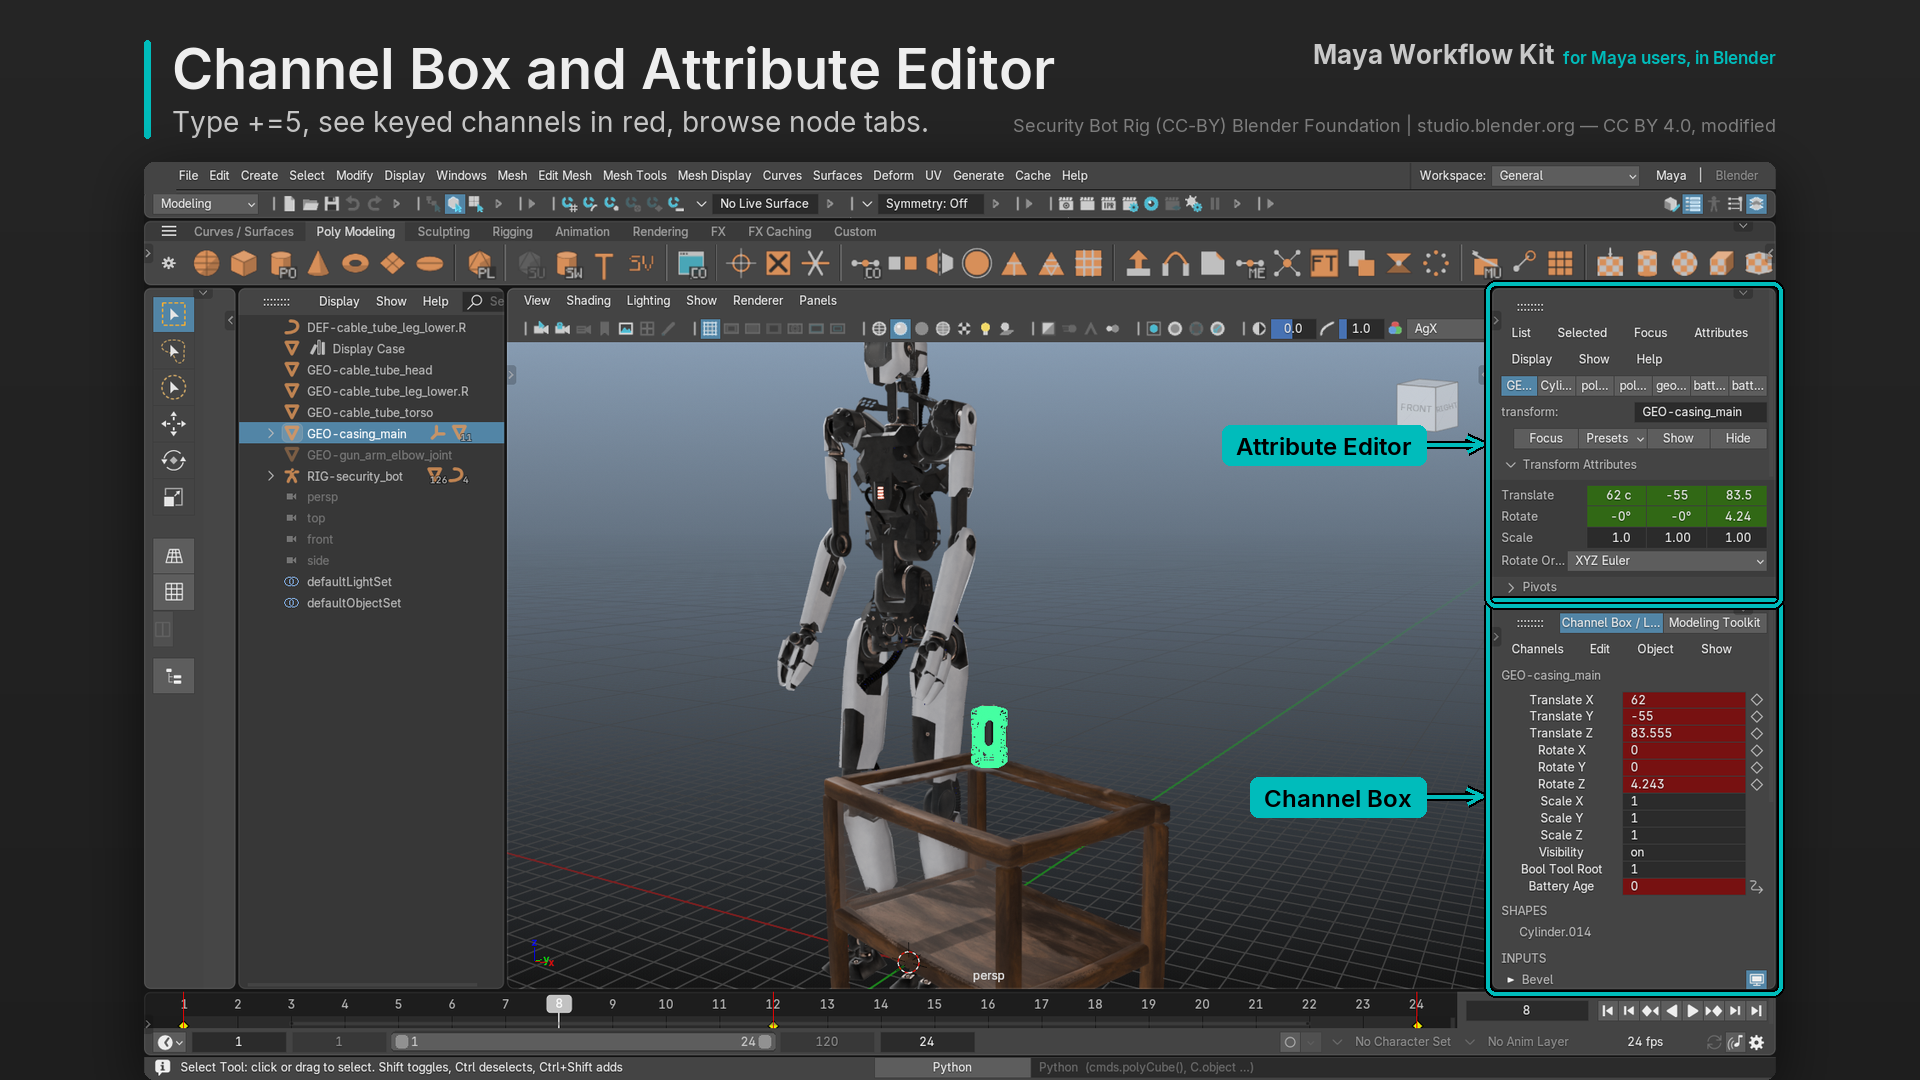
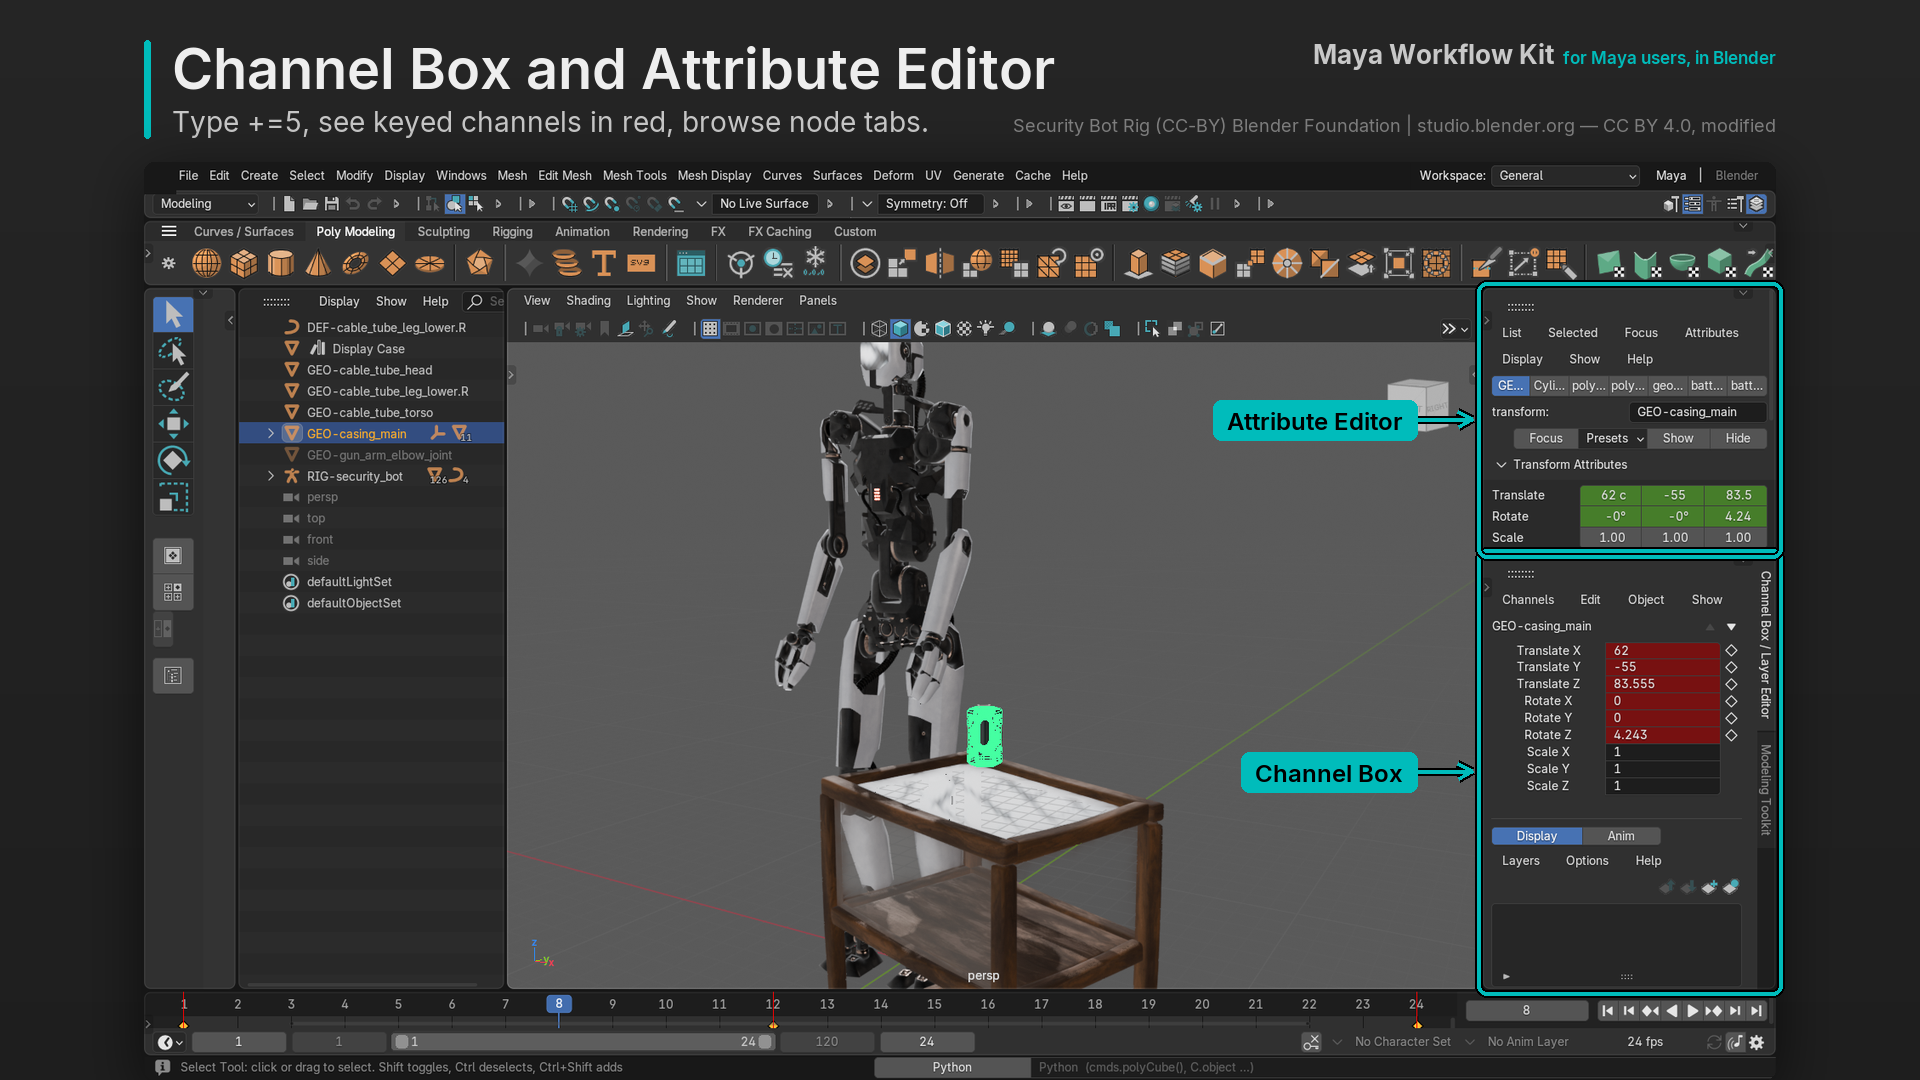
WIP step 142 media: store media and marketing stills retaken without a theme (#41)
Generators load the Maya layout from the extension's startup.blend
(step 130 removed allset.layout_install / the app template). Retaken in
Blender's factory theme with the current kit (narrow dock with tab strip,
Maya manipulator, menu icons): media/01-10 + featured, marketing screens,
key visuals. AE split leaves room for every Channel Box row; option-box
callout follows the menu with icons. Docs say which theme the shots use.

diff --git a/tools/marketing/shots.py b/tools/marketing/shots.py
@@ -25,7 +25,7 @@ from mathutils import Vector
 sys.path.insert(0, str(Path(__file__).resolve().parent))
 from scene import (ROOT, area_rect, check_capture, clear_objects, dog_scene, dog_view, floor, frame,  # noqa: E402
                    lab_scene, look, maya_look, maya_mode_on, mod, pack_scene, prefs, rain_keys, rain_scene, redraw,
-                   region_rect, screen_pos, select, shaders_ready_step, shading, show_bones, template_name, to_top,
+                   region_rect, screen_pos, select, shaders_ready_step, shading, show_bones, to_top,
                    v3d_override, viewport_rects)
 import sim  # noqa: E402
 from sim import MODULE, check, ev, run, setup, step, tap, view3d, win  # noqa: E402
@@ -136,8 +136,7 @@ def s_before_shot():
 @step
 def s_opt_in():
     setup()   # opts in to Maya mode (what the dialog's button does)
-    check("install the Maya layout template", bpy.ops.allset.layout_install() == {'FINISHED'})
-    bpy.ops.wm.read_homefile(app_template=template_name())
+    sim.load_maya_layout()   # the Maya layout startup.blend in the extension (step 130)
 
 
 # ------------------------------------------------------------------------------------------------ helpers (step 125)
@@ -314,7 +313,7 @@ def s_lab():
     stack = sim.dock_area('CHANNEL_BOX')
     before = set(win().screen.areas[:])
     with bpy.context.temp_override(window=win(), screen=win().screen, area=stack):
-        bpy.ops.screen.area_split(direction='HORIZONTAL', factor=0.55)
+        bpy.ops.screen.area_split(direction='HORIZONTAL', factor=0.62)   # AE on top, room for every CB row
     new = [a for a in win().screen.areas if a not in before]
     C["ae"] = new[0] if new else None
     if C["ae"]:

diff --git a/tools/marketing/clips.py b/tools/marketing/clips.py
@@ -24,7 +24,7 @@ from mathutils import Vector
 sys.path.insert(0, str(Path(__file__).resolve().parent))
 from scene import (ROOT, bg_result, clear_objects, dog_scene, dog_view, floor, frame, lab_scene, look,  # noqa: E402
                    maya_look, maya_mode_on, mod, pack_scene, prefs, rain_scene, redraw, screen_pos, select,
-                   shaders_ready_step, shading, show_bones, template_name, theme_unchanged, v3d_override,
+                   shaders_ready_step, shading, show_bones, theme_unchanged, v3d_override,
                    viewport_rects)
 import sim  # noqa: E402
 from sim import MODULE, check, ev, run, setup, step, view3d, win  # noqa: E402
@@ -219,8 +219,7 @@ def maya_session(kind="dog", setup_scene=None):
     @step
     def s_setup():
         setup()
-        check("install the Maya layout template", bpy.ops.allset.layout_install() == {'FINISHED'})
-        bpy.ops.wm.read_homefile(app_template=template_name())
+        sim.load_maya_layout()   # the Maya layout startup.blend in the extension (step 130)
 
     @step
     def s_scene():

diff --git a/tools/marketing/scene.py b/tools/marketing/scene.py
@@ -594,24 +594,6 @@ LOOK_STATE = {"on": False, "theme": None}
 KEEPER_INTERVAL = 0.05      # s: well inside one recording tick (0.3 - 0.7 s), so a new view is flat grey when drawn
 
 
-def template_name():
-    """The installed layout template: "Maya_Workflow_Kit" (step 125; Blender shows "Maya Workflow Kit"), else the
-    pre-125 "Allset" (builds made before the rename)."""
-    names = []
-    try:
-        tid = getattr(mod(".app_template"), "TEMPLATE_ID", None)
-        if tid:
-            names.append(tid)
-    except ImportError:
-        pass
-    names += ["Maya_Workflow_Kit", "Allset"]
-    for name in names:
-        for base in bpy.utils.app_template_paths():
-            if (Path(base) / name).is_dir():
-                return name
-    return names[-1]
-
-
 def maya_mode_on():
     try:
         return mod(".switch").is_on()
